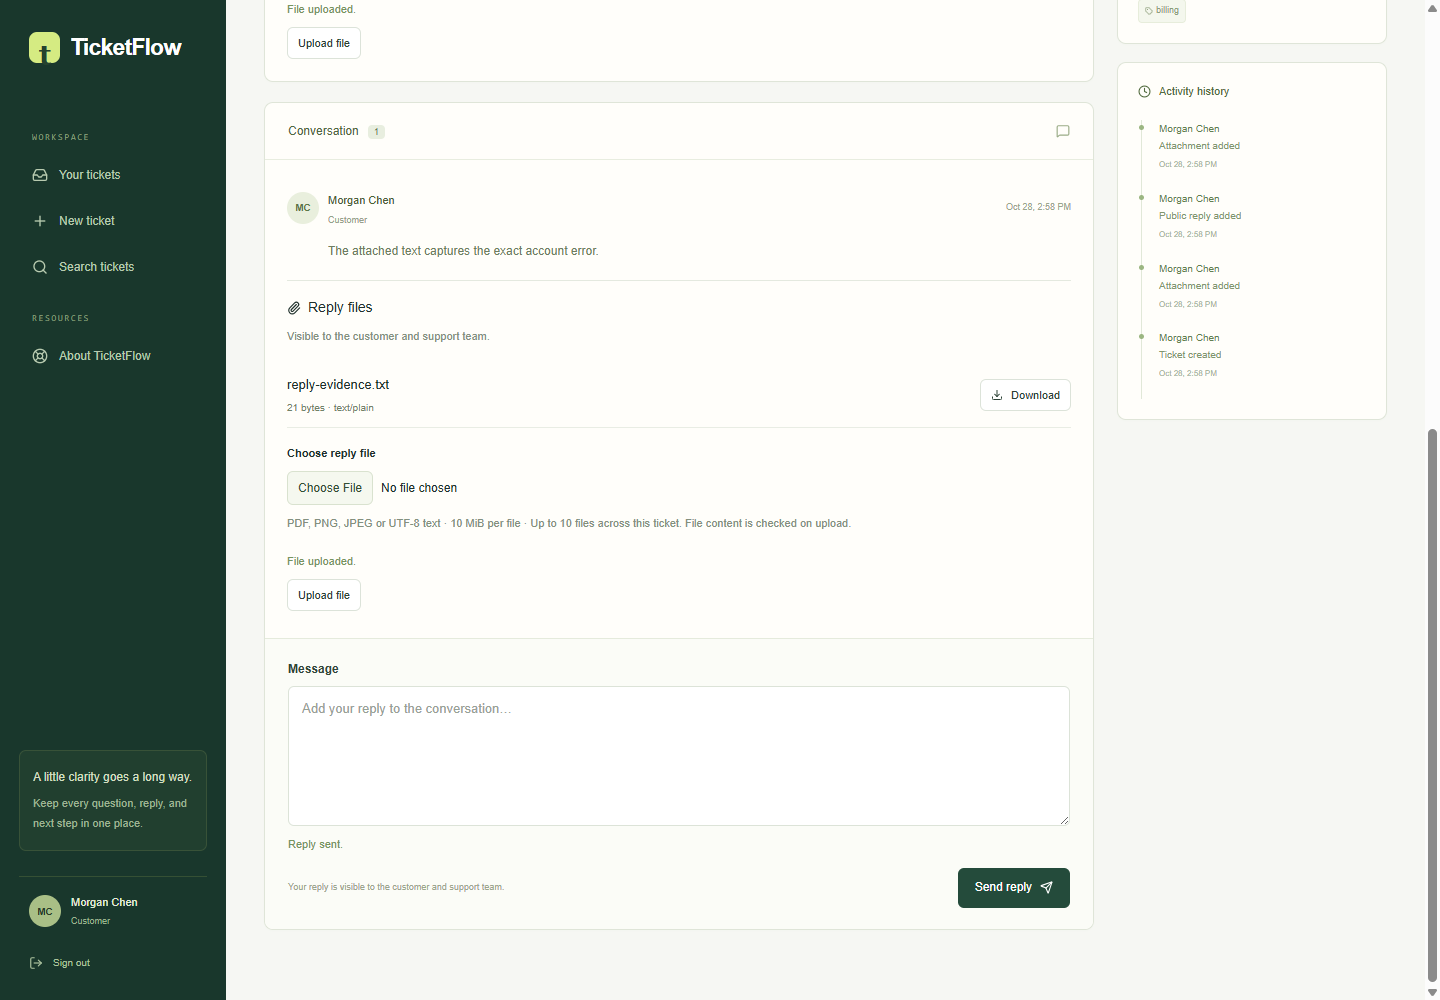
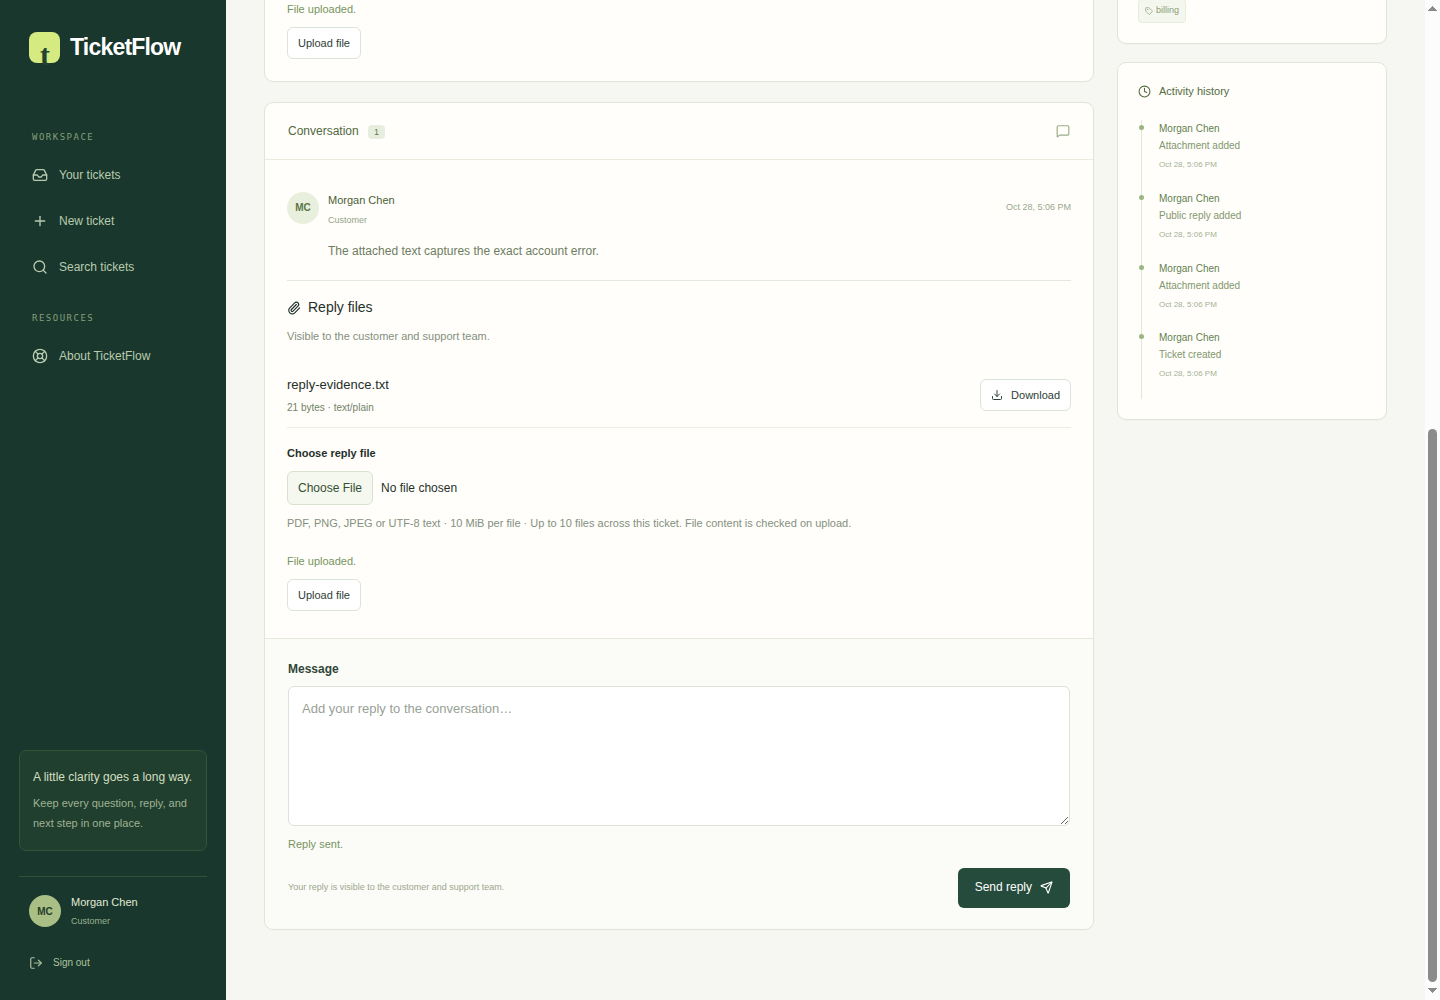
docs: add verified milestone 3 search and file walkthrough

diff --git a/docs/milestone-3-verification.md b/docs/milestone-3-verification.md
@@ -20,16 +20,28 @@ Search coverage includes full-text public content and ticket numbers, metadata/d
 
 The optional X-TicketFlow-User precondition is checked against authenticated identity before endpoint execution. Account mismatch returns 412/account_changed; client requests are not replayed under the new account. Legacy clients without the header retain their existing behavior.
 
-Release solution build, locked restore, C# formatting, generated API-contract consistency, frontend compatibility checks and Compose startup passed. Independent attachment and search reviews found two defects (route-size matching and index-loss mappings); both were fixed and their regressions passed.
+Release solution build, locked restore, C# formatting, generated API-contract consistency, frontend compatibility checks and Compose startup passed. Independent scoped and whole-milestone reviews completed. Route-size matching, index-loss mappings, async filter defaults, renewed-account replay, and initial-request account binding were corrected with regression coverage; final review found no remaining P1/P2 issue.
 
 ## Frontend and browser evidence
 
 The frontend passes **32 Jest tests** after the final production build. Generated API types, scoped queries, guarded multipart/binary transport, actual renewed-identity checks, initial-request account binding, async filter defaults and safe text highlights are covered. TypeScript (app/shared and Cypress), ESLint, formatting and the clean production build passed; Jest ignores generated standalone output.
 
-**Six native browser journeys passed** against the production web server, published API, PostgreSQL, Mailpit and actual SeaweedFS. These cover the existing M2 auth/ticket/reset workflow plus attachment upload/download, exact 10 MiB proxy upload, public reply files, conflict preservation, private/foreign file denial and closed-ticket states. The final run includes the initial account-switch upload regression: a new cookie account cannot accept an old tab’s upload, no ticket/file mutation occurs, and stale local file state clears without revoking the shared session. The genuine full-text browser scenario remains for the frontend CI stack with Elasticsearch and worker enabled.
+**Six native browser journeys passed** against the production web server, published API, PostgreSQL, Mailpit and actual SeaweedFS. These cover the existing M2 auth/ticket/reset workflow plus attachment upload/download, exact 10 MiB proxy upload, public reply files, conflict preservation, private/foreign file denial and closed-ticket states. The final run includes the initial account-switch upload regression: a new cookie account cannot accept an old tab’s upload, no ticket/file mutation occurs, and stale local file state clears without revoking the shared session. **All 7 browser journeys passed in GitHub CI** against the production Compose web/API/worker/PostgreSQL/SeaweedFS/Elasticsearch/Mailpit stack. The search journey verifies public replies, metadata/date/sort filters, filter-only queries, literal markup as safe text, staff/customer internal-note exclusion, foreign-owner isolation and a 390px viewport.
+
+- [Frontend PR #4](https://github.com/EhsanEbneKhodadad/ticketflow/pull/4) (current checks and dependency status)
+- [Passing feature-acceptance CI](https://github.com/EhsanEbneKhodadad/ticketflow/actions/runs/40731981820)
+- [Passing branch CI](https://github.com/EhsanEbneKhodadad/ticketflow/actions/runs/40731843592)
 
 ![Ticket files](screenshots/m3-ticket-attachments.png)
 
 ![Reply files](screenshots/m3-reply-attachments.png)
 
-Neither Milestone 2 nor Milestone 3 PRs are merged automatically.
+![Full-text results and filters](screenshots/m3-search-results.png)
+
+The literal markup in the result is a test input rendered as text; it is not executed.
+
+![Mobile search filters](screenshots/m3-search-mobile.png)
+
+Screenshots come from the successful real-service CI run, not mocked responses. Named evidence files exclude failed/runner captures. Neither Milestone 2 nor Milestone 3 PRs are merged. Review order is M2 backend #1, M2 frontend #2, M3 backend #3, M3 frontend #4; retarget dependent PRs to main after their prerequisites merge.
+
+Local native preview has no Elasticsearch runtime; full search is verified in Docker CI and can be enabled with SEARCH_ENABLED=true and the Compose search profile per README. No public application deployment is included.

diff --git a/docs/superpowers/plans/2026-10-28-milestone-3.md b/docs/superpowers/plans/2026-10-28-milestone-3.md
@@ -47,8 +47,8 @@ Interfaces: GET /api/v1/search/tickets accepts q, page, pageSize, status, priori
 Files: feature-oriented attachments components/API/tests; search route/components/API/tests; ticket detail and conversations integration, navigation; Cypress journeys and CI; generated API client; documentation and screenshots.
 Interfaces: consume generated Task 1/2 types. Multipart transport excludes JSON Content-Type but includes CSRF/session retry. Scoped query keys and initiating-principal guards remain mandatory.
 
-- [ ] Write failing user-behavior tests for upload errors, privacy, safe highlight and query filters.
-- [ ] Add ticket and reply attachment lists/upload/download controls, clear upload/permission/error/conflict states, and search page/filter/highlight UI with mobile layout.
-- [ ] Run Jest, both typechecks, lint/format and production build; run real browser acceptance against S3/ES and preserve genuine screenshots.
-- [ ] Fresh whole-branch review, fix findings, commit/push feat/m3-frontend, create PR targeting feat/m3-backend and attach it.
-- [ ] Confirm CI, no merges, clean tree; deliver PR links, test evidence and screenshots.
+- [x] Write failing user-behavior tests for upload errors, privacy, safe highlight and query filters.
+- [x] Add ticket and reply attachment lists/upload/download controls, clear upload/permission/error/conflict states, and search page/filter/highlight UI with mobile layout.
+- [x] Run Jest, both typechecks, lint/format and production build; run real browser acceptance against S3/ES and preserve genuine screenshots.
+- [x] Fresh whole-branch review, fix findings, commit/push feat/m3-frontend, create PR targeting feat/m3-backend and attach it.
+- [x] Confirm CI, no merges, clean tree; deliver PR links, test evidence and screenshots.

diff --git a/docs/decisions/0007-initiating-account-precondition.md b/docs/decisions/0007-initiating-account-precondition.md
@@ -1,0 +1,17 @@
+# ADR 0007: Bind guarded requests to the initiating account
+
+## Context
+
+Browser login cookies are shared across tabs, while React Query state belongs to each tab. A login in another tab can change the authenticated account while the first tab still displays its previous account. Checking only cached identity, or checking identity only after a 401 refresh, cannot stop an initially successful request executing under the new account.
+
+## Decision
+
+Guarded attachment/search/look-up requests carry the initiating UserView.id in X-TicketFlow-User. API middleware compares this optional precondition with the authenticated actor before CSRF/form parsing and endpoint execution. A malformed or repeated value returns 400; a different account returns 412 Problem Details with code account_changed and no private identity data.
+
+The client does not replay the request. It clears this tab's stale private state and presents a sign-in notice, while preserving the other account's server session. Same-account cookie renewal and cross-tab refresh coordination remain supported.
+
+## Consequences
+
+The header is a client precondition, not authentication or a replacement for resource authorization/CSRF. Existing clients without it keep normal cookie-based behavior. The new guarded UI binds its initial requests as well as renewal retries. No token is exposed or stored in browser storage.
+
+Actual Kestrel/PostgreSQL tests reproduce the previous wrong-account 201 and verify rejection without storage/version/audit changes. The real browser regression changes shared cookies without updating the old tab and confirms 412, no upload replay, cleared file state and unchanged ticket data. See [verification](../milestone-3-verification.md).

diff --git a/docs/milestone-3.md b/docs/milestone-3.md
@@ -27,4 +27,4 @@ Transactional outbox, Hangfire notifications/reminders, file-content extraction,
 - [Implementation plan](superpowers/plans/2026-10-28-milestone-3.md)
 - [Private attachment architecture](decisions/0005-private-attachments.md)
 
-Verification and screenshots are recorded after the complete apps pass their checks.
+See [verification and screenshots](milestone-3-verification.md): 89 backend tests, 32 frontend tests and 7 production-stack browser journeys pass. The separate [backend PR #3](https://github.com/EhsanEbneKhodadad/ticketflow/pull/3) and [frontend PR #4](https://github.com/EhsanEbneKhodadad/ticketflow/pull/4) remain unmerged.
